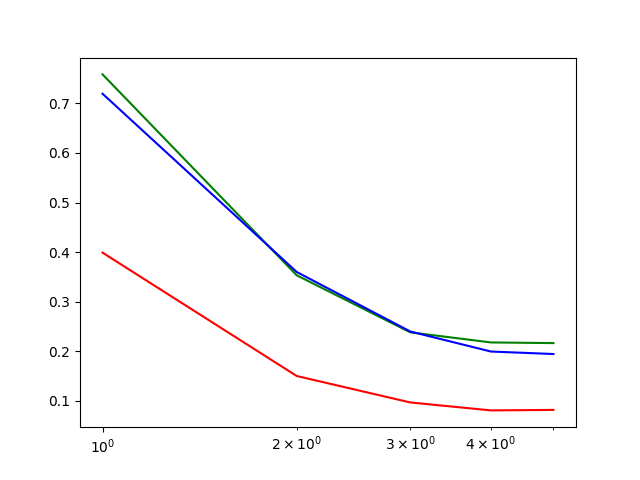
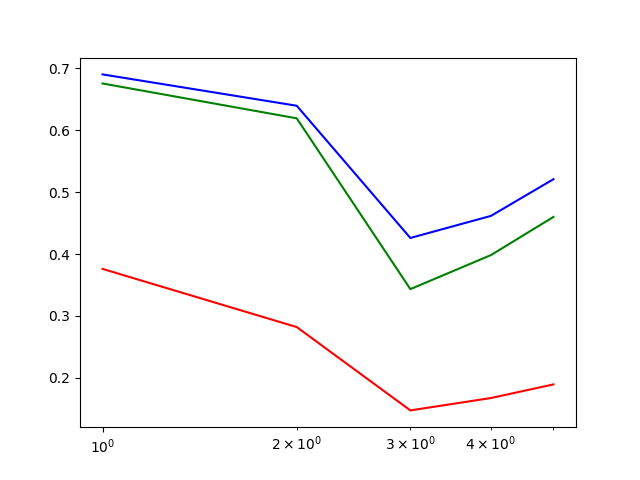
feat: best models actDCF evaluation up to threshold estimation (untested)

diff --git a/experimentsBest.py b/experimentsBest.py
@@ -1,0 +1,112 @@
+from src_lib import *
+from data import *
+from src_lib.GMM_Model import GMMLBG_DT_Model, GMMLBG_Diag_Model, GMMLBG_Model, GMMLBG_Tied_Model
+from src_lib.SVM_Model import Kernel
+
+FOLDS = 5
+VERBOSE = True
+STOP_TH = 1e-3
+
+class ExperimentsGMM:
+    def __init__(self, dataName: str):
+        if dataName == "gend":
+            (self.DTR, self.LTR), (self.DTE, self.LTE) = load_Gender(shuffle=True)
+        
+        self.bal_app = (0.5, np.array([[1,0],[0,1]]))
+        self.female_app = (0.9, np.array([[1,0],[0,1]]))
+        self.male_app = (0.1, np.array([[1,0],[0,1]]))
+
+        self.model1 = GMMLBG_Tied_Model(2,STOP_TH, 4)
+
+        preproc = PCA(8)
+        self.model2 = GMMLBG_Model(2,STOP_TH, 3, preProcess=preproc)
+    
+    def find_act_DCF_primary(self):
+
+        kcv = KCV(self.model1, 5)
+        actDCFb, thb = kcv.compute_actual_dcf(self.model1, self.DTR, self.LTR, self.bal_app[0])
+
+        kcv = KCV(self.model1, 5)
+        actDCFf, thf = kcv.compute_actual_dcf(self.model1, self.DTR, self.LTR, self.female_app[0])
+        
+        kcv = KCV(self.model1, 5)
+        actDCFm, thm = kcv.compute_actual_dcf(self.model1, self.DTR, self.LTR, self.male_app[0])
+
+
+        if VERBOSE:
+            print(f"act DCF for primary model bal: {actDCFb} - {thb}")
+            print(f"act DCF for primary model female: {actDCFf} - {thf}")
+            print(f"act DCF for primary model male: {actDCFm} - {thm}")
+    
+    def find_act_DCF_secondary(self):
+
+        kcv = KCV(self.model2, 5)
+        actDCFb, thb = kcv.compute_actual_dcf(self.model2, self.DTR, self.LTR, self.bal_app[0])
+
+        kcv = KCV(self.model2, 5)
+        actDCFf, thf = kcv.compute_actual_dcf(self.model2, self.DTR, self.LTR, self.female_app[0])
+        
+        kcv = KCV(self.model2, 5)
+        actDCFm, thm = kcv.compute_actual_dcf(self.model2, self.DTR, self.LTR, self.male_app[0])
+
+
+        if VERBOSE:
+            print(f"act DCF for secondary model bal: {actDCFb} - {thb}")
+            print(f"act DCF for secondary model female: {actDCFf} - {thf}")
+            print(f"act DCF for secondary model male: {actDCFm} - {thm}")
+    
+    def Bayes_plot(self):
+        DCFsList = []
+        kcv = KCV(self.model1, 5)
+        lOdds, DCFsP, minDCFsP = kcv.compute_bayes_pars(self.model1, self.DTR, self.LTR )
+
+        DCFsList.append(DCFsP)
+        DCFsList.append(minDCFsP)
+        
+        kcv = KCV(self.model2, 5)
+        lOdds, DCFsS, minDCFsS = kcv.compute_bayes_pars(self.model2, self.DTR, self.LTR )
+
+        DCFsList.append(DCFsS)
+        DCFsList.append(minDCFsS)
+
+        if VERBOSE:
+            plot_vals(DCFsList, lOdds, False)
+
+    def threshold_estimate_primary(self):
+        DCFsList = []
+
+        kcv = KCV(self.model1, 5)
+        minDCFb, theory_actDCFb, estimate_th_actDCFb, best_th = kcv.threshold_estimate(self.model1, self.DTR, self.LTR, self.bal_app[0])
+        
+
+        kcv = KCV(self.model1, 5)
+        minDCFf, theory_actDCFf, estimate_th_actDCFf, best_th = kcv.threshold_estimate(self.model1, self.DTR, self.LTR, self.female_app[0])
+        
+        kcv = KCV(self.model1, 5)
+        kcv = KCV(self.model1, 5)
+        minDCFm, theory_actDCFm, estimate_th_actDCFm, best_th = kcv.threshold_estimate(self.model1, self.DTR, self.LTR, self.male_app[0])
+        
+
+        if VERBOSE:
+            print(f"bal, minDCF vs estimated th actDCF : {minDCFb} - {theory_actDCFb} - {estimate_th_actDCFb}")
+            print(f"female, minDCF vs estimated th actDCF : {minDCFf} - {theory_actDCFf} - {estimate_th_actDCFf}")
+            print(f"male, minDCF vs estimated th actDCF : {minDCFm} - {theory_actDCFm} - {estimate_th_actDCFm}")
+    
+    def threshold_estimate_secondary(self):
+        kcv = KCV(self.model2, 5)
+        minDCFb, theory_actDCFb, estimate_th_actDCFb, best_th = kcv.threshold_estimate(self.model2, self.DTR, self.LTR, self.bal_app[0])
+        
+
+        kcv = KCV(self.model2, 5)
+        minDCFf, theory_actDCFf, estimate_th_actDCFf, best_th = kcv.threshold_estimate(self.model2, self.DTR, self.LTR, self.female_app[0])
+        
+        kcv = KCV(self.model2, 5)
+        minDCFm, theory_actDCFm, estimate_th_actDCFm, best_th = kcv.threshold_estimate(self.model2, self.DTR, self.LTR, self.male_app[0])
+        
+
+        if VERBOSE:
+            print(f"bal, minDCF vs estimated th actDCF : {minDCFb} - {theory_actDCFb} - {estimate_th_actDCFb}")
+            print(f"female, minDCF vs estimated th actDCF : {minDCFf} - {theory_actDCFf} - {estimate_th_actDCFf}")
+            print(f"male, minDCF vs estimated th actDCF : {minDCFm} - {theory_actDCFm} - {estimate_th_actDCFm}")
+        
+        

diff --git a/experimentsSVM.py b/experimentsSVM.py
@@ -145,20 +145,20 @@ class ExperimentsSVM:
             kernel = Kernel(kname="poly2", c = 1)
             
             preproc = Gaussianize()
-            model = SVMNL_Model(2, 0, 0.1, kernel=kernel, preProcess=preproc)
+            model = SVMNL_Model(2, KNL, 0.1, kernel=kernel, preProcess=preproc)
             kcv = KCV(model, 5)
             minDCFs, vals, accs = kcv.find_best_par(model, self.DTR, self.LTR, 0,(-3, 3), e_prior=self.bal_app[0], n_vals=5)
             minDCFList.append(minDCFs)
             accuracies.append(accs)
         
-            model = SVMNL_Model(2, 1, 0.1, kernel=kernel, preProcess=preproc)
+            model = SVMNL_Model(2, KNL, 0.1, kernel=kernel, preProcess=preproc)
             kcv = KCV(model, 5)
             minDCFs, vals, accs = kcv.find_best_par(model, self.DTR, self.LTR, 0,(-3, 3), e_prior=self.female_app[0], n_vals=5)
             minDCFList.append(minDCFs)
             accuracies.append(accs)
 
        
-            model = SVMNL_Model(2, 1, 0.1, kernel= kernel, preProcess= preproc)
+            model = SVMNL_Model(2, KNL, 0.1, kernel= kernel, preProcess= preproc)
             kcv = KCV(model, 5)
             minDCFs, vals, accs = kcv.find_best_par(model, self.DTR, self.LTR, 0,(-3, 3), e_prior=self.male_app[0], n_vals=5)
             minDCFList.append(minDCFs)
@@ -274,7 +274,7 @@ class ExperimentsSVM:
             accuracies = []
             kernel = Kernel(kname="RBF", gamma = 0.001)
             preproc = Gaussianize()
-            model = SVMNL_Model(2, 1, 0.1, kernel=kernel, preProcess=preproc)
+            model = SVMNL_Model(2, KNL, 0.1, kernel=kernel, preProcess=preproc)
             kcv = KCV(model, 5)
             minDCFs, vals, accs = kcv.find_best_par(model, self.DTR, self.LTR, 0,(-3, 3), e_prior=self.bal_app[0], n_vals=5)
             minDCFList.append(minDCFs)
@@ -282,7 +282,7 @@ class ExperimentsSVM:
 
             
             kernel = Kernel(kname="RBF", gamma = 0.01)
-            model = SVMNL_Model(2, 1, 0.1, kernel=kernel, preProcess=preproc)
+            model = SVMNL_Model(2, KNL, 0.1, kernel=kernel, preProcess=preproc)
             kcv = KCV(model, 5)
             minDCFs, vals, accs = kcv.find_best_par(model, self.DTR, self.LTR, 0,(-3, 3), e_prior=self.bal_app[0], n_vals=5)
             minDCFList.append(minDCFs)
@@ -291,7 +291,7 @@ class ExperimentsSVM:
 
             
             kernel = Kernel(kname="RBF", gamma = 0.1)
-            model = SVMNL_Model(2, 1, 0.1, kernel= kernel, preProcess=preproc)
+            model = SVMNL_Model(2, KNL, 0.1, kernel= kernel, preProcess=preproc)
             kcv = KCV(model, 5)
             minDCFs, vals, accs = kcv.find_best_par(model, self.DTR, self.LTR, 0,(-3, 3), e_prior=self.bal_app[0], n_vals=5)
             minDCFList.append(minDCFs)
@@ -302,6 +302,24 @@ class ExperimentsSVM:
                 plot_vals(accuracies, vals)
                 #0.2870 - 0.0996 - 0.0673
     
+    def find_RBF_Gauss_mf_best_pars(self):
+        kernel = Kernel(kname="RBF", gamma = 0.1)
+        model = SVMNL_Model(2, KNL, 0.001, kernel=kernel)
+        kcv = KCV(model, 5)
+        dcfb, th = kcv.compute_min_dcf(model, self.DTR, self.LTR, self.bal_app[0])
+            
+        model = SVMNL_Model(2, KNL, 0.001, kernel=kernel)
+        kcv = KCV(model, 5)
+        dcff, th = kcv.compute_min_dcf(model, self.DTR, self.LTR, self.female_app[0])
+
+        model = SVMNL_Model(2, KNL, 0.001, kernel=kernel)
+        kcv = KCV(model, 5)
+        dcfm, th = kcv.compute_min_dcf(model, self.DTR, self.LTR, self.male_app[0])
+
+        if VERBOSE:
+            print(f"minDCF for RBF C = 20 and gamma = 0.1 bal : {dcfb}") 
+            print(f"minDCF for RBF C = 20 and gamma = 0.1 female : {dcff}")
+            print(f"minDCF for RBF C = 20 and gamma = 0.1 male : {dcfm}")
 
     def find_RBF_raw_mf_best_pars(self):
         
@@ -460,7 +478,7 @@ if __name__ == "__main__":
     #exps.find_best_C_L_Gauss()
 
     #exps.find_best_C_Quad_PCA8()
-    exps.find_best_C_RBF_PCA8_bal()
+    #exps.find_best_C_RBF_PCA8_bal()
     #exps.plot_RBF_pca8_bal()
     #exps.find_best_C_Quad_raw()
     #exps.find_best_C_Quad_Gauss()
@@ -473,3 +491,4 @@ if __name__ == "__main__":
     #exps.find_best_C_RBF_raw_male()
     #exps.find_best_C_RBF_PCA8_male()
     #exps.find_best_C_RBF_Gauss_bal()
+    exps.find_RBF_Gauss_mf_best_pars()

diff --git a/src_lib/BD_wrapper.py b/src_lib/BD_wrapper.py
@@ -77,6 +77,10 @@ class BD_Wrapper:
 
         if VERBOSE: print(f"minDCF: {risk/opt_risk}, acc: {(M[0,0]+M[1,1])/(M.sum())}")
         return risk/opt_risk
+    
+    def get_theoretical_threshold(self):
+        return -np.log((self.prior[1]*self.C[0, 1])/(self.prior[0]*self.C[1,0]))
+
 
     def get_matrix_from_threshold(self, L:np.ndarray, llrs:np.ndarray, th: float) -> np.ndarray:
         predL = np.int32(llrs > th)
@@ -161,7 +165,7 @@ class BD_Wrapper:
         plt.plot(FNRs, TPRs )
         plt.show()
 
-    def plot_Bayes_errors(self, D, L) -> None:
+    def plot_Bayes_errors(self, D : np.ndarray, L: np.ndarray, plot: bool = True) -> Tuple[np.ndarray, List[float], List[float]]:
         _, __, llrs =   self.model.predict(D,L)
         labels = L
         
@@ -186,12 +190,52 @@ class BD_Wrapper:
         #DCFs.reverse()
         
         #minDCFs.reverse()
-        plt.plot(priorLogOdds, DCFs, label='DCF', color= 'r')
 
-        plt.plot(priorLogOdds, minDCFs, label='minDCF', color= 'b')
-        plt.ylim([0, 1.1])
-        plt.xlim([-3,3])
-        plt.show()
+        if plot:
+            plt.plot(priorLogOdds, DCFs, label='DCF', color= 'r')
+
+            plt.plot(priorLogOdds, minDCFs, label='minDCF', color= 'b')
+            plt.ylim([0, 1.1])
+            plt.xlim([-3,3])
+            plt.show()
+        
+        return priorLogOdds, DCFs, minDCFs
+
+    def plot_Bayes_errors_from_scores(self, llrs : np.ndarray, L: np.ndarray, plot: bool = True) -> Tuple[np.ndarray, List[float], List[float]]:
+        #_, __, llrs =   self.model.predict(D,L)
+        labels = L
+        
+        #llrs = np.log(Post[1, :]/Post[0, :])
+        old_prior = self.prior
+        priorLogOdds = np.linspace(-3, 3, 21)
+        DCFs = []
+        minDCFs = [] 
+        for idx, p in enumerate(priorLogOdds):
+            effectiveP = 1/(1+np.exp(-p))
+            th = -np.log((effectiveP)/(1-effectiveP))
+            
+            self.prior = np.array([(1-effectiveP), effectiveP])
+            m = self.get_matrix_from_threshold(labels, llrs, th=th)
+            
+
+            DCFs.append(self.get_norm_risk(m))
+            minDCFs.append(self.compute_best_threshold(D,L)[0])
+
+        self.prior = old_prior        
+        
+        #DCFs.reverse()
+        
+        #minDCFs.reverse()
+
+        if plot:
+            plt.plot(priorLogOdds, DCFs, label='DCF', color= 'r')
+
+            plt.plot(priorLogOdds, minDCFs, label='minDCF', color= 'b')
+            plt.ylim([0, 1.1])
+            plt.xlim([-3,3])
+            plt.show()
+        
+        return priorLogOdds, DCFs, minDCFs
 
     def checker(self, th: float = None) -> Tuple[float, np.ndarray]:
         if th == None:

diff --git a/src_lib/KCV.py b/src_lib/KCV.py
@@ -9,6 +9,7 @@ from src_lib.Model import Model
 import numpy as np
 from typing import Any, List, Tuple
 import math
+import random as r
 
 VERBOSE=False
 
@@ -93,7 +94,55 @@ class KCV:
 
         return minDCF, th
 
+    def compute_actual_dcf(self, model: Model, D: np.ndarray, L: np.ndarray, e_prior: float = 0.5, th: float = None):
+        w=BD_Wrapper("Static", 2, e_prior=e_prior, model=model)
+        self.model = model
+        acc, whole_S = self.crossValidate(D, L, VERBOSE)
+        if th is None:
+            th = w.get_theoretical_threshold()
+        confusion_m = w.get_matrix_from_threshold(L, whole_S, th)
+        
+        actDcf = w.get_norm_risk(confusion_m)
+
+        return actDcf, th
     
+    def threshold_estimate(self, model: Model, D: np.ndarray, L: np.ndarray, e_prior: float = 0.5 ):
+        w=BD_Wrapper("Static", 2, e_prior=e_prior, model=model)
+        self.model = model
+        acc, whole_S = self.crossValidate(D, L, VERBOSE)
+
+        shuffled_zip = zip(whole_S, L)
+        length = len(shuffled_zip)
+        r.Random(5).shuffle(shuffled_zip)
+
+        t_split = shuffled_zip[0: length/2]
+        v_split = shuffled_zip[ length/2: ]
+
+        _, best_th = w.compute_best_threshold_from_Scores(t_split[0], t_split[1])
+
+        theory_th = w.get_theoretical_threshold()
+        
+        minDCF, _ = w.compute_best_threshold_from_Scores(v_split[0], v_split[1])
+
+        confusion_m = w.get_matrix_from_threshold(v_split[1], v_split[0], theory_th)
+        theory_actDCF = w.get_norm_risk(confusion_m)
+
+        confusion_m = w.get_matrix_from_threshold(v_split[1], v_split[0], best_th)
+        estimate_th_actDCF = w.get_norm_risk(confusion_m)
+
+        return minDCF, theory_actDCF, estimate_th_actDCF, best_th
+
+
+        
+
+    def compute_bayes_pars(self, model: Model, D: np.ndarray, L: np.ndarray):
+        w=BD_Wrapper("Static", 2, model=model)
+        self.model = model
+        acc, whole_S = self.crossValidate(D, L, VERBOSE)
+
+        return w.plot_Bayes_errors_from_scores(whole_S, L, plot= True)
+
+
 
     def find_best_par(self, model: Model, D: np.ndarray, L:np.ndarray, par_index: int, bounds: Tuple[float, float], logBounds: bool = True, logbase: float=10.0, e_prior: float = 0.5, verbose:bool = False, n_vals: int=20) -> Any:
         

diff --git a/experimentsGMM.py b/experimentsGMM.py
@@ -383,6 +383,6 @@ if __name__ == "__main__":
     #exps.find_best_K_N_raw()
     #exps.find_best_K_N_PCA8()
     #exps.find_best_K_N_Gauss()
-    exps.find_best_K_NT_raw()
-    exps.find_best_K_NT_PCA8()
+    #exps.find_best_K_NT_raw()
+    #exps.find_best_K_NT_PCA8()
     exps.find_best_K_NT_Gauss()

diff --git a/measurements.md b/measurements.md
@@ -99,6 +99,16 @@
 | qudratic(C =  10e-3)  | 0.9786  | -       | -       |
 | RBF (gamma= 0.01,C=20)| 0.0516  | 0.1783  | 0.1583  |
 
+## Gaussianize
+
+
+| model                 | 𝝅 = 0.5 | 𝝅 = 0.9 | 𝝅 = 0.1 |
+| ------------          | ------- | ------- | ------- |
+| linear(C = 10e-3)     | 0.0550  | 0.1586  | 0.1566  |       
+| qudratic(C =  20)     | 0.0546  | 0.1503  | 0.1676  | 
+| RBF (gamma=0.1,C=10e3)| 0.0673  | 0.3996  | 0.3896  |
+
+
 # GMM
 
 ## Raw
@@ -126,7 +136,7 @@
 | FC (g =  8)           | 0.0456  | 0.1246  | 0.1283  |   
 | T (g=  8)             | 0.0579  | 0.1406  | 0.1669  | 
 | N (g= 16)             | 0.1020  | 0.2740  | 0.2593  |
-| NT (g= 16)            | 0.0810  | 0.2180  | *  |
+| NT (g= 8)             | 0.1473  | 0.3433  | 0.426  |
 
 
 

diff --git a/TODO.md b/TODO.md
@@ -4,3 +4,5 @@
 * fusion model?
 * balance classes?
 * check get_covariance for GMM _train
+* recheck rbf gauss values for unbalanced apps
+* complete the estimation threshold in kcv
